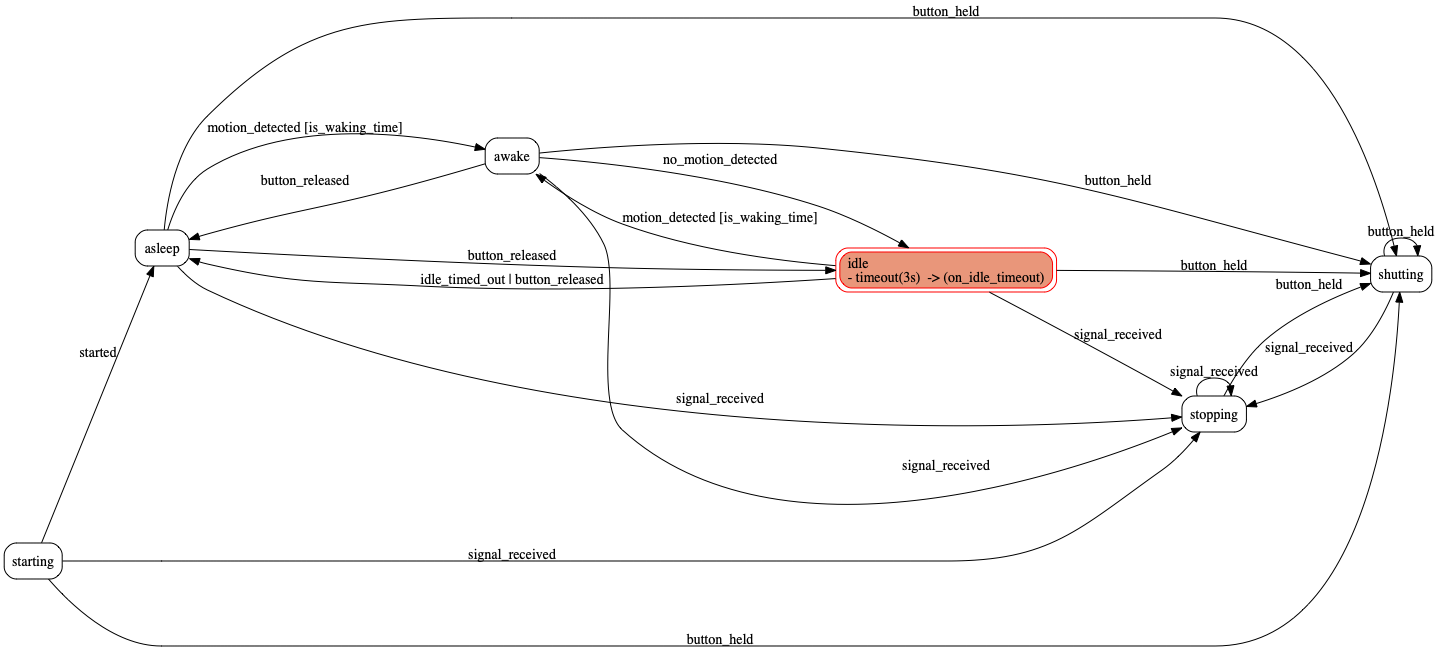
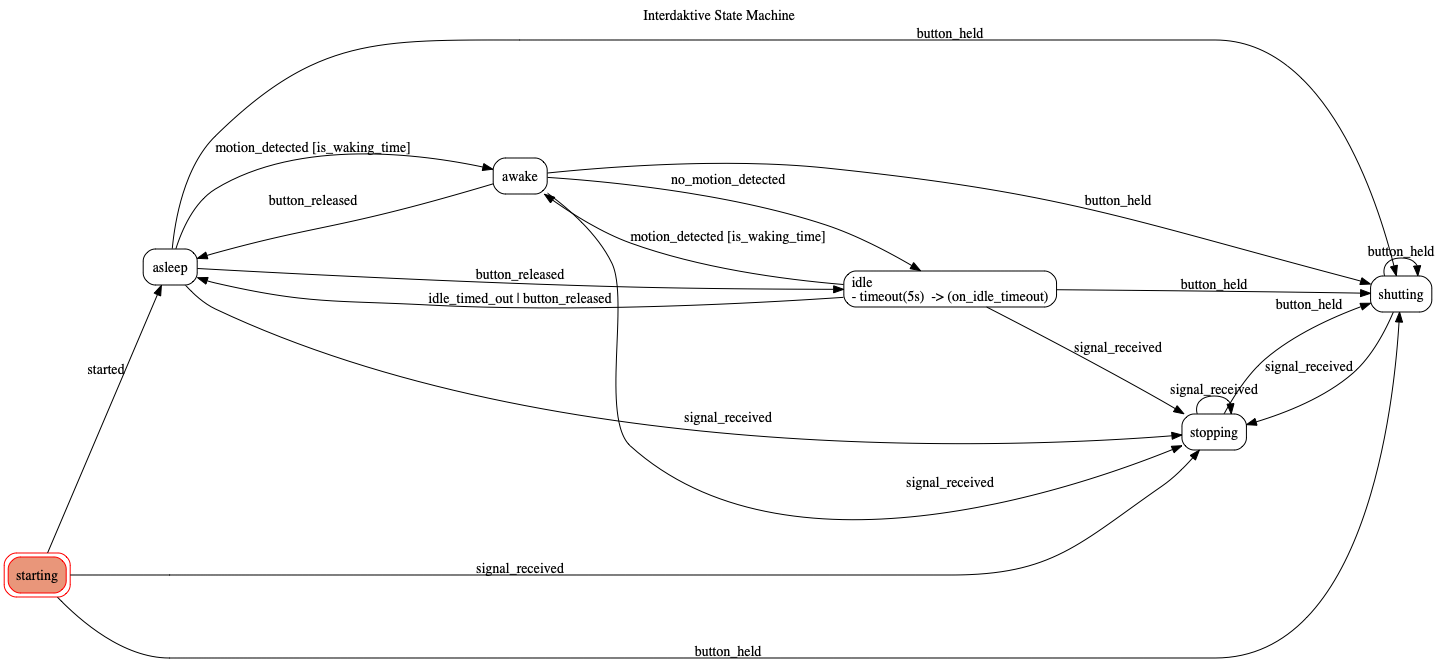
improved everything!

diff --git a/interdaktive/state_machine.py b/interdaktive/state_machine.py
@@ -4,8 +4,9 @@ import os
 import subprocess
 import time
 import typing
+from dataclasses import astuple, dataclass, fields
 
-from transitions.extensions import GraphMachine as Machine  # type: ignore
+from transitions import Machine  # type: ignore
 from transitions.extensions.states import Timeout  # type: ignore
 from transitions.extensions.states import add_state_features  # type: ignore
 
@@ -15,138 +16,129 @@ logging.basicConfig(level=logging.DEBUG)
 logging.getLogger('transitions').setLevel(logging.INFO)
 
 
-States = collections.namedtuple('States', [
-    'asleep',
-    'awake',
-    'idle',
-    'shutting',
-    'starting',
-    'stopping',
-])
-states = States(
-    asleep='asleep',
-    awake='awake',
-    idle='idle',
-    shutting='shutting',
-    starting='starting',
-    stopping='stopping',
-)
+@dataclass(frozen=True)
+class States:
+    asleep: str = 'asleep'
+    awake: str = 'awake'
+    idle: str = 'idle'
+    shutting: str = 'shutting'
+    starting: str = 'starting'
+    stopping: str = 'stopping'
+
+    def __iter__(self) -> typing.Iterator[str]:
+        return iter(astuple(self))
 
 
-Transitions = collections.namedtuple('Transitions', [
-    'button_held',
-    'button_released',
-    'idle_timed_out',
-    'motion_detected',
-    'no_motion_detected',
-    'signal_received',
-    'started',
-])
-transitions = Transitions(
-    button_held='button_held',
-    button_released='button_released',
-    idle_timed_out='idle_timed_out',
-    motion_detected='motion_detected',
-    no_motion_detected='no_motion_detected',
-    signal_received='signal_received',
-    started='started',
-)
+@dataclass(frozen=True)
+class Transitions:
+    button_held: str = 'button_held'
+    button_released: str = 'button_released'
+    idle_timed_out: str = 'idle_timed_out'
+    motion_detected: str = 'motion_detected'
+    no_motion_detected: str = 'no_motion_detected'
+    signal_received: str = 'signal_received'
+    started: str = 'started'
+
+    def __iter__(self) -> typing.Iterator[str]:
+        return iter(astuple(self))
 
 
-@add_state_features(Timeout)
-class StateMachine(Machine):
-    __config: Config
+class StateMachine(object):
+    config: Config
+    machine: Machine
 
-    def __init__(self, config: Config):
-        enhanced_states = []
-        for state in states:
-            if state == states.idle:
-                enhanced_states.append({
+    def __init__(self, config: Config, machine_class, **kwargs):
+        self.config = config
+
+        # The idle state requires a timeout feature, so add it while converting the `states` tuple
+        # to a list.
+        states_with_features: typing.List[typing.Union[typing.Dict, str]] = []
+        for state in States():
+            if state == States.idle:
+                states_with_features.append({
                     'name': state,
-                    'timeout': config.sleep_delay_seconds,
-                    'on_timeout': 'on_idle_timeout'
+                    'timeout': self.config.sleep_delay_seconds,
+                    'on_timeout': self.on_idle_timeout.__name__  # A string is required here.
                 })
             else:
-                enhanced_states.append(state)
+                states_with_features.append(state)
 
-        super().__init__(
-            self,
-            states=enhanced_states,
-            initial=states.starting,
+        # Call the constructor of one of the multitude of possible transitions' Machine mixins.
+        machine_class_with_features = add_state_features(Timeout)(machine_class)
+        self.machine = machine_class_with_features(
+            model=self,
+            states=states_with_features,
+            initial=States.starting,
             auto_transitions=False,
-            show_conditions=True,
-            show_state_attributes=True,
+            **kwargs,
         )
 
-        self.__config = config
-        self.__idle_timer = None
-
         # Add transitions for starting, stopping, and shutting down.
-        self.add_transition(transitions.started, states.starting, states.asleep,
-                            after=[self.running_led_on, self.display_off])
+        self.machine.add_transition(Transitions.started, States.starting, States.asleep,
+                                    after=[self.running_led_on, self.display_off])
 
-        self.add_transition(transitions.signal_received, '*', states.stopping,
-                            after=lambda *args, **kwargs: os._exit(0))
+        self.machine.add_transition(Transitions.signal_received, '*', States.stopping,
+                                    after=self.quit)
 
-        self.add_transition(transitions.button_held, '*', states.shutting,
-                            after=lambda *args, **kwargs: subprocess.run('shutdown now', shell=True))
+        self.machine.add_transition(Transitions.button_held, '*', States.shutting,
+                                    after=self.shutdown)
 
         # Add transitions between asleep, awake, and idle.
-        self.add_transition(transitions.motion_detected, [states.asleep, states.idle], states.awake,
-                            prepare=self.motion_led_on,
-                            conditions='is_waking_time',  # A string is specified so that it shows up in the diagram
-                            after=self.display_on)
+        self.machine.add_transition(Transitions.motion_detected, [States.asleep, States.idle], States.awake,
+                                    prepare=self.motion_led_on,
+                                    conditions=self.is_waking_time.__name__,  # A string is not required, but it won't show up on the diagram otherwise.
+                                    after=self.display_on)
 
-        self.add_transition(transitions.no_motion_detected, states.awake, states.idle,
-                            prepare=self.motion_led_off)
+        self.machine.add_transition(Transitions.no_motion_detected, States.awake, States.idle,
+                                    prepare=self.motion_led_off)
 
-        self.add_transition(transitions.idle_timed_out, states.idle, states.asleep,
-                            after=self.display_off)
+        self.machine.add_transition(Transitions.idle_timed_out, States.idle, States.asleep,
+                                    after=self.display_off)
 
-        self.add_transition(transitions.button_released, states.asleep, states.idle,
-                            after=self.display_on)
-        self.add_transition(transitions.button_released, [states.awake, states.idle], states.asleep,
-                            after=self.display_off)
+        self.machine.add_transition(Transitions.button_released, States.asleep, States.idle,
+                                    after=self.display_on)
+        self.machine.add_transition(Transitions.button_released, [States.awake, States.idle], States.asleep,
+                                    after=self.display_off)
 
     def __getitem__(self, key: str) -> typing.Callable[[], None]:
-        return getattr(self, getattr(transitions, key))
+        return getattr(self, getattr(Transitions, key))
 
-    def save_diagram_to_file(self, file_path: str) -> None:
-        self.machine_attributes['ratio'] = '0.33'
-        graph = self.get_graph(force_new=True, title='')
-        graph.draw(file_path, prog='dot')
+    def quit(self, *args, **kwargs) -> None:
+        os._exit(0)
 
-    def on_idle_timeout(self) -> None:
-        print('on_idle_timeout')
-        self[transitions.idle_timed_out]()
+    def shutdown(self, *args, **kwargs) -> None:
+        subprocess.run('shutdown now', shell=True)
 
-    def display_off(self) -> None:
-        self.__config.display.off()
+    def on_idle_timeout(self, *args, **kwargs) -> None:
+        self[Transitions.idle_timed_out]()
 
-    def display_on(self) -> None:
-        self.__config.display.on()
+    def display_off(self, *args, **kwargs) -> None:
+        self.config.display.off()
 
-    def motion_led_off(self) -> None:
-        if self.__config.motion_led:
-            self.__config.motion_led.off()
+    def display_on(self, *args, **kwargs) -> None:
+        self.config.display.on()
 
-    def motion_led_on(self) -> None:
-        if self.__config.motion_led:
-            self.__config.motion_led.on()
+    def motion_led_off(self, *args, **kwargs) -> None:
+        if self.config.motion_led:
+            self.config.motion_led.off()
 
-    def running_led_on(self) -> None:
-        if (self.__config.running_led):
-            self.__config.running_led.on()
+    def motion_led_on(self, *args, **kwargs) -> None:
+        if self.config.motion_led:
+            self.config.motion_led.on()
 
-    def is_waking_time(self) -> bool:
+    def running_led_on(self, *args, **kwargs) -> None:
+        if (self.config.running_led):
+            self.config.running_led.on()
+
+    def is_waking_time(self, *args, **kwargs) -> bool:
         now: time.struct_time = time.localtime()
         return (
             (
-                now.tm_hour > self.__config.waking_time_begin.tm_hour or
-                (now.tm_hour == self.__config.waking_time_begin.tm_hour and now.tm_min >= self.__config.waking_time_begin.tm_min)
+                now.tm_hour > self.config.waking_time_begin.tm_hour or
+                (now.tm_hour == self.config.waking_time_begin.tm_hour and now.tm_min >= self.config.waking_time_begin.tm_min)
             ) and
             not (
-                now.tm_hour > self.__config.waking_time_end.tm_hour or
-                (now.tm_min == self.__config.waking_time_end.tm_min and now.tm_min >= self.__config.waking_time_end.tm_min)
+                now.tm_hour > self.config.waking_time_end.tm_hour or
+                (now.tm_min == self.config.waking_time_end.tm_min and now.tm_min >= self.config.waking_time_end.tm_min)
             )
         )

diff --git a/interdaktive/__main__.py b/interdaktive/__main__.py
@@ -2,7 +2,7 @@ import signal
 import threading
 
 from interdaktive.config import Config
-from interdaktive.state_machine import StateMachine, transitions
+from interdaktive.state_machine import StateMachine, Transitions
 
 if __name__ == '__main__':
     # Load up the configuration from command line arguments.
@@ -10,20 +10,33 @@ if __name__ == '__main__':
     print(vars(config))
 
     # Create the state machine.
-    state_machine = StateMachine(config)
-    state_machine.save_diagram_to_file('doc/state-machine.png')
+    if config.export_diagram_file_path is not None:
+        from transitions.extensions import GraphMachine  # type: ignore
+        state_machine = StateMachine(
+            config,
+            GraphMachine,
+            show_conditions=True,
+            show_state_attributes=True,
+            title='Interdaktive State Machine'
+        )
+        state_machine.machine.machine_attributes['labelloc'] = 'top'
+        state_machine.machine.machine_attributes['ratio'] = '0.33'
+        state_machine.machine.get_graph(force_new=True).draw(config.export_diagram_file_path, prog='dot')
+    else:
+        from transitions import Machine  # type: ignore
+        state_machine = StateMachine(config, Machine)
 
     # Wire the state machine up to external events.
-    signal.signal(signal.SIGINT, state_machine.signal_received)
-    signal.signal(signal.SIGTERM, state_machine.signal_received)
+    signal.signal(signal.SIGINT, state_machine[Transitions.signal_received])
+    signal.signal(signal.SIGTERM, state_machine[Transitions.signal_received])
 
-    config.motion_sensor.when_motion = state_machine.motion_detected
-    config.motion_sensor.when_no_motion = state_machine.no_motion_detected
+    config.motion_sensor.when_motion = state_machine[Transitions.motion_detected]
+    config.motion_sensor.when_no_motion = state_machine[Transitions.no_motion_detected]
 
     if config.control_button:
-        config.control_button.when_released = state_machine.button_released
-        config.control_button.when_held = state_machine.button_held
+        config.control_button.when_released = state_machine[Transitions.button_released]
+        config.control_button.when_held = state_machine[Transitions.button_held]
 
     # Transition the state machine to operational mode and run until signalled to quit.
-    state_machine[transitions.started]()
+    state_machine[Transitions.started]()
     signal.pause()

diff --git a/interdaktive/config.py b/interdaktive/config.py
@@ -11,6 +11,7 @@ from interdaktive.display import Display
 class Config(argparse.Namespace):
     control_button: typing.Union[gpiozero.Button, None]
     display: Display
+    export_diagram_file_path: typing.Union[str, None]
     motion_led: typing.Union[gpiozero.LED, None]
     motion_sensor: gpiozero.MotionSensor
     running_led: typing.Union[gpiozero.LED, None]
@@ -69,6 +70,12 @@ class Config(argparse.Namespace):
             help='The GPIO pin (in gpiozero format) to which an optional control button is attached. Pressing the button will forcefully turn on the display, even outside of waking times. Holding the button for 5 seconds will shutdown the system.',
             metavar='CONTROL_BUTTON_PIN',
             type=parse_control_button,
+        )
+
+        parser.add_argument(
+            '--export-diagram-file-path',
+            help='If provided, a PNG diagram of the internal state machine will be generated at the given path.',
+            type=str,
         )
 
         parser.add_argument(
